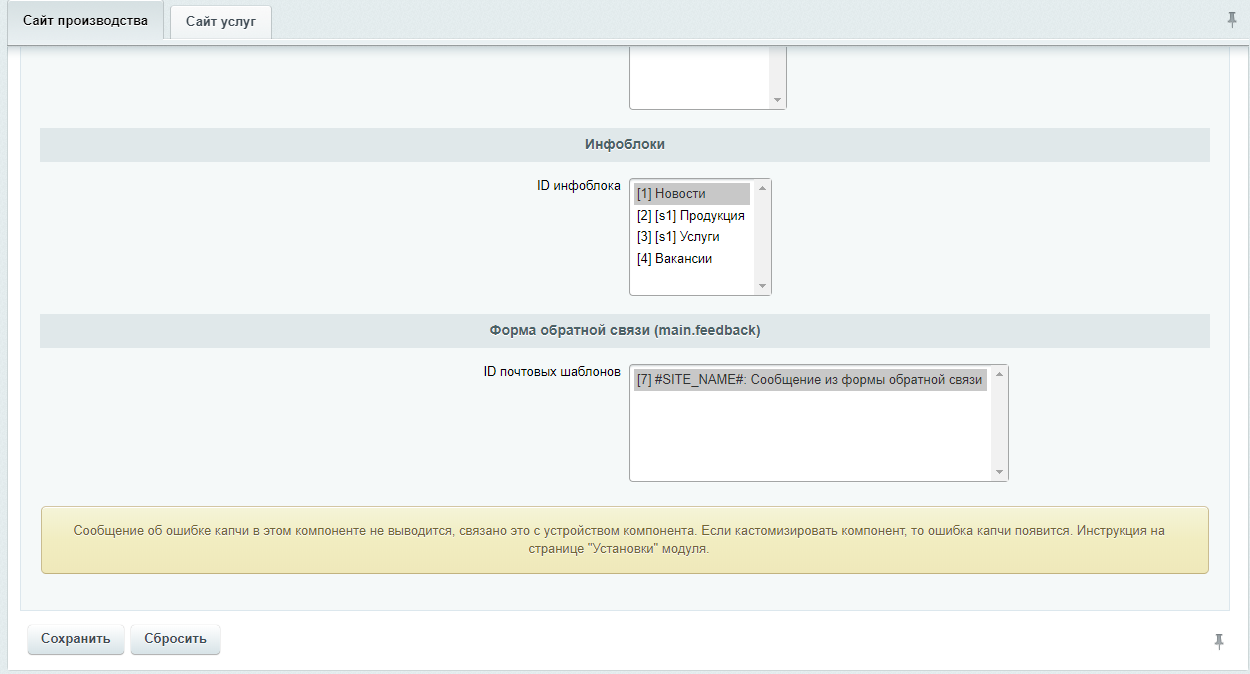
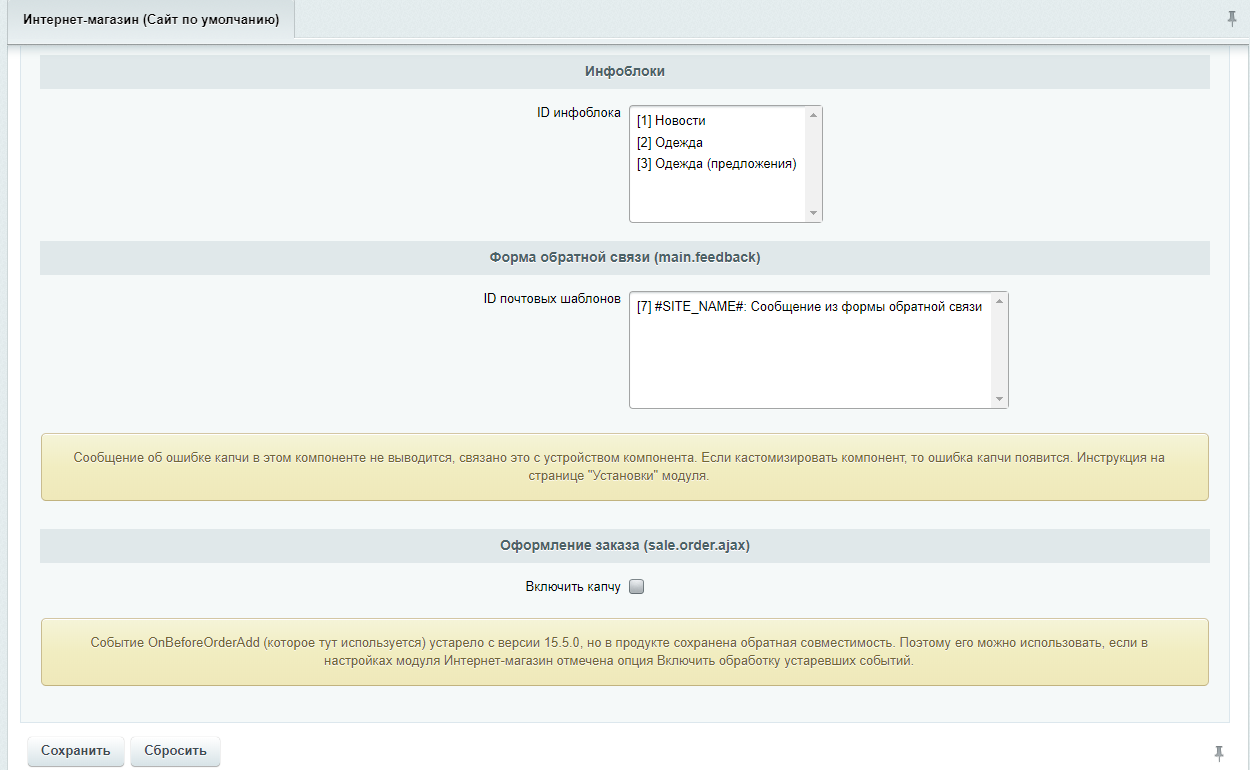
Добавлена поддержка компонента sale.order.ajax.

diff --git a/b01110011.recaptcha/options.php b/b01110011.recaptcha/options.php
@@ -65,6 +65,7 @@ while ($arSite = $rsSites->Fetch())
         ]
     ]);
 
+
     // Регистрация пользователей
     $arOptions = array_merge($arOptions,
     [
@@ -76,6 +77,7 @@ while ($arSite = $rsSites->Fetch())
             ['checkbox']
         ]
     ]);
+
 
     // Веб Формы
     if (Loader::includeModule('form'))
@@ -100,6 +102,7 @@ while ($arSite = $rsSites->Fetch())
         ]);
     }
 
+
     // Инфоблоки
     if (Loader::includeModule('iblock'))
     {
@@ -123,6 +126,7 @@ while ($arSite = $rsSites->Fetch())
         ]);
     }
 
+
     // Форма обратной связи main.feedback
     // получаем список почтовых шаблонов
     $arEvents = [];
@@ -143,6 +147,24 @@ while ($arSite = $rsSites->Fetch())
         ],
         ['note' => Loc::getMessage(M::locPrefix() .'NOTE_MAIN_FEEDBACK')]
     ]);
+
+
+    // Оформление заказа
+    if (Loader::includeModule('sale'))
+    {
+        $arOptions = array_merge($arOptions,
+        [
+            Loc::getMessage(M::locPrefix() .'HEADER_SALE_ORDER'),
+            [
+                'sale_order_enable_'. $arSite['LID'],
+                Loc::getMessage(M::locPrefix() .'FIELD_SALE_ORDER'),
+                'N',
+                ['checkbox']
+            ],
+            ['note' => Loc::getMessage(M::locPrefix() .'NOTE_SALE_ORDER')]
+        ]);
+    }
+
 
     // список сайтов
     $aTabs[] =

diff --git a/b01110011.recaptcha/lang/en/options.php b/b01110011.recaptcha/lang/en/options.php
@@ -7,8 +7,10 @@ $MESS[M::locPrefix() .'HEADER_REGISTRATION'] = 'Registration';
 $MESS[M::locPrefix() .'HEADER_WEBFORM_IDS'] = 'Web Form';
 $MESS[M::locPrefix() .'HEADER_IBLOCK'] = 'Info Blocks';
 $MESS[M::locPrefix() .'HEADER_MAIN_FEEDBACK'] = 'Feedback form (main.feedback)';
+$MESS[M::locPrefix() .'HEADER_SALE_ORDER'] = 'Make order (sale.order.ajax)';
 
 $MESS[M::locPrefix() .'NOTE_MAIN_FEEDBACK'] = 'A captcha error message is not displayed in this component, because this is how the component works. If you customize the component, a captcha error will appear. Instructions on the "Settings" page of the module.';
+$MESS[M::locPrefix() .'NOTE_SALE_ORDER'] = 'The OnBeforeOrderAdd event (which is used here) has been deprecated since version 15.5.0, but backward compatibility is preserved in the product. Therefore, it can be used if the Enable processing of obsolete events option is checked in the settings of the Online Store module.';
 
 $MESS[M::locPrefix() .'FIELD_SITE_KEY'] = 'Site key';
 $MESS[M::locPrefix() .'FIELD_SECRET_KEY'] = 'Secret key';
@@ -19,3 +21,4 @@ $MESS[M::locPrefix() .'FIELD_REGISTRATION'] = 'Enable captcha';
 $MESS[M::locPrefix() .'FIELD_ERROR_MESSAGE'] = 'Captcha error message';
 $MESS[M::locPrefix() .'FIELD_IBLOCK_IDS'] = 'IBlock ID';
 $MESS[M::locPrefix() .'FIELD_MAIN_FEEDBACK_IDS'] = 'Mail template ID';
+$MESS[M::locPrefix() .'FIELD_SALE_ORDER'] = 'Enable captcha';

diff --git a/b01110011.recaptcha/lib/B01110011ReCaptcha/BitrixCaptcha.php b/b01110011.recaptcha/lib/B01110011ReCaptcha/BitrixCaptcha.php
@@ -47,6 +47,7 @@ class BitrixCaptcha
         $EventManager->addEventHandler('main', 'OnBeforeUserRegister', ['B01110011ReCaptcha\BitrixCaptcha', 'checkRegistration']);
         $EventManager->addEventHandler('main', 'OnBeforeEventAdd', ['B01110011ReCaptcha\BitrixCaptcha', 'checkFeedback']);
         $EventManager->addEventHandler('iblock', 'OnBeforeIBlockElementAdd', ['B01110011ReCaptcha\BitrixCaptcha', 'checkIBlock']);
+        $EventManager->addEventHandler('sale', 'OnBeforeOrderAdd', ['B01110011ReCaptcha\BitrixCaptcha', 'checkSaleOrder']);
     }
 
     /**
@@ -71,6 +72,17 @@ class BitrixCaptcha
     {
         $registrationEnable = Option::get(M::id(), 'registration_enable_'. SITE_ID, 'N');
         if ($registrationEnable == 'N') return true;
+
+        return self::checkSpam();
+    }
+
+    /**
+     * Проверка при оформлении заказа
+     */
+    public function checkSaleOrder(&$arFields)
+    {
+        $saleOrderEnable = Option::get(M::id(), 'sale_order_enable_'. SITE_ID, 'N');
+        if ($saleOrderEnable == 'N') return true;
 
         return self::checkSpam();
     }

diff --git a/b01110011.recaptcha/install/version.php b/b01110011.recaptcha/install/version.php
@@ -3,6 +3,6 @@
 // должны быть " кавычки
 $arModuleVersion =
 [
-    "VERSION" => "1.1.4",
-    "VERSION_DATE" => "2020-03-27 19:54:00"
+    "VERSION" => "1.1.5",
+    "VERSION_DATE" => "2020-03-28 18:24:00"
 ];

diff --git a/README.md b/README.md
@@ -10,36 +10,145 @@ reCAPTCHA v3 - это бесплатный сервис, который защи
   
 **Для работы модуля:**
 1. Получить ключи рекапчи.
-2. Вставить скрытое поле в форму.
+2. Вставить скрытое поле в форму. (если форма отправляется с помощью ajax, то и заполнить это скрытое поле методом "recaptcha.getToken()")
 3. Произвести быструю настройку на странице настроек модуля.
 
 **Получение ключей:**
 
 Авторизоваться через google аккаунт и зарегистрировать свой сайт по ссылке  
 https://www.google.com/recaptcha/admin/create  
-и получить ключи.  
+и получить ключи для reCaptcha v3.  
 *(при ситуации когда есть тестовый сайт, вписывайте его в поле "Домены")*  
 
-**Вставить код в формы:**
+**Настройка модуля:**
 
-скрытое поле в которое будет вставляться токен при отправке формы
+В административном разделе, в настройках модуля, вставить полученные ключи.  
+( Настройки > Настройки продукта > Настройки модулей > Google ReCaptcha )  
+
+**Настройка защиты "инфоблоков":**
+
+1. В настройках модуля выбрать нужные инфоблоки для защиты от спама и сохранить изменения.
+2. В шаблоне добавления информации в инфоблок вставить скрытое поле в тег формы.  
 ```html
 <input type="hidden" name="recaptcha_token" value="">
 ```
+Если форма отправляется через ajax, то нужно самим заполнять это поле методом window.recaptcha.getToken().  
+Примеры:  
+```html
+<input type="submit" value="Добавить новость" onclick="this.form.recaptcha_token.value = window.recaptcha.getToken()">
+```
+или без скрытого поля сразу добавлять токен в запрос через js  
+```js
+BX.ajax({
+    url: 'some url',
+    method: 'POST',
+    data: {
+        action: "to_send_form",
+        name: $(".name_field").val(),
+        ...
+        recaptcha_token: window.recaptcha.getToken(),
+    },
+    onsuccess: function(data){
+        $(".form_ready").remove();
+        ClearForm();
+        $(".form_to_send").prepend(data);
+    }
+});
+```
 
-**Если нужно защитить от спама:**
+**Настройка защиты "Веб формы":**
 
-Регистрацию  
-> Находим блок "Регистрации" и жмём на "Включить капчу"  
-  
-Добавление данных в модуль "Веб формы"  
-> Находим блок "Веб формы" и выбираем нужные формы для защиты.    
-  
-Добавление данных в модуль "Инфоблоки"  
-> Находим блок "Инфоблоки" и выбираем нужные инфоблоки для защиты.  
-  
-Форму обратной связи main.feedback  
-> Находим блок "Форма обратной связи" и выбираем нужные почтовые шаблоны для защиты.  
+1. В настройках модуля выбрать нужные веб формы для защиты от спама и сохранить изменения.
+2. В шаблоне добавления информации в веб форму вставить скрытое поле в тег формы.  
+```html
+<input type="hidden" name="recaptcha_token" value="">
+```
+Если форма отправляется через ajax, то нужно самим заполнять это поле методом window.recaptcha.getToken().  
+Примеры:  
+```html
+<input type="submit" value="Обратный звонок" onclick="this.form.recaptcha_token.value = window.recaptcha.getToken()">
+```
+или без скрытого поля сразу добавлять токен в запрос через js  
+```js
+BX.ajax({
+    url: 'some url',
+    method: 'POST',
+    data: {
+        action: "to_send_form",
+        name: $(".name_field").val(),
+        ...
+        recaptcha_token: window.recaptcha.getToken(),
+    },
+    onsuccess: function(data){
+        $(".form_ready").remove();
+        ClearForm();
+        $(".form_to_send").prepend(data);
+    }
+});
+```
+
+**Настройка защиты "Регистрации":**
+
+1. В настройках модуля находим блок "Регистрации", жмём на "Включить капчу" для защиты от спама и сохранить изменения.
+2. В шаблоне регистрации вставить скрытое поле в тег формы.  
+```html
+<input type="hidden" name="recaptcha_token" value="">
+```
+Если форма отправляется через ajax, то нужно самим заполнять это поле методом window.recaptcha.getToken().  
+Примеры:  
+```html
+<input type="submit" value="Зарегистрироваться" onclick="this.form.recaptcha_token.value = window.recaptcha.getToken()">
+```
+или без скрытого поля сразу добавлять токен в запрос через js  
+```js
+BX.ajax({
+    url: 'some url',
+    method: 'POST',
+    data: {
+        action: "to_send_form",
+        name: $(".name_field").val(),
+        ...
+        recaptcha_token: window.recaptcha.getToken(),
+    },
+    onsuccess: function(data){
+        $(".form_ready").remove();
+        ClearForm();
+        $(".form_to_send").prepend(data);
+    }
+});
+```
+
+**Настройка защиты "Формы обратной связи (main.feedback)":**
+
+По умолчанию в этом компоненте не выводится ошибка капчи. Инструкция, по настройке выводу ошибки, чуть ниже.  
+1. В настройках модуля находим блок "Форма обратной связи", выбираем нужные почтовые шаблоны для защиты от спама и сохранить изменения.
+2. В шаблоне Формы обратной связи вставить скрытое поле в тег формы.  
+```html
+<input type="hidden" name="recaptcha_token" value="">
+```
+Если форма отправляется через ajax, то нужно самим заполнять это поле методом window.recaptcha.getToken().  
+Примеры:  
+```html
+<input type="submit" value="Обратная связь" onclick="this.form.recaptcha_token.value = window.recaptcha.getToken()">
+```
+или без скрытого поля сразу добавлять токен в запрос через js  
+```js
+BX.ajax({
+    url: 'some url',
+    method: 'POST',
+    data: {
+        action: "to_send_form",
+        name: $(".name_field").val(),
+        ...
+        recaptcha_token: window.recaptcha.getToken(),
+    },
+    onsuccess: function(data){
+        $(".form_ready").remove();
+        ClearForm();
+        $(".form_to_send").prepend(data);
+    }
+});
+``` 
 
 **Как вывести сообщение об ошибке капчи в "Форме обратной связи main.feedback"?**
 Нужно скопировать компонент (папку main.feedback) из *bitrix\components\bitrix\main.feedback* в *local\components\bitrix\main.feedback* .  
@@ -65,6 +174,24 @@ else
 ```
 И всё! Вывод ошибок капчи будет работать.  
 
+**Настройка защиты "Оформления заказа (sale.order.ajax)":**
+
+1. В настройках модуля находим блок "Оформление заказа", жмём на "Включить капчу" для защиты от спама и сохранить изменения.
+2. Перейти в папку шаблона компонента. Открыть файл order_ajax.js.  
+У меня это находится тут bitrix\templates\eshop_bootstrap_v4\components\bitrix\sale.order.ajax\bootstrap_v5\order_ajax.js  
+на 186 строке идёт отправка данных методом ajax  
+в объект data вставить токен рекапчи:
+```js
+data: {
+    recaptcha_token: window.recaptcha.getToken(),
+    via_ajax: 'Y',
+    action: 'saveOrderAjax',
+    sessid: BX.bitrix_sessid(),
+    SITE_ID: this.siteId,
+    signedParamsString: this.signedParamsString
+},
+```
+
 **Как получить токен, если я отправляю данные через AJAX?**
 ```js
 window.recaptcha.getToken()
@@ -85,5 +212,6 @@ php часть:
 
 **Как тестировать?**
 
-Открываем консоль в браузере и уничтожаем объект recaptcha = null (window.recaptcha), перед добавлением данных.
+Открываем консоль в браузере и уничтожаем объект recaptcha = null (window.recaptcha), перед добавлением данных.  
+Для компонента Оформления заказа (sale.order.ajax) лучше переопределить функцию получения токена recaptcha.getToken = function(){return 123;}  
 Если была сделана соответствующая настройка на странице настроек модуля (выбран инфоблок), то после добавления данных будет ошибка капчи.
